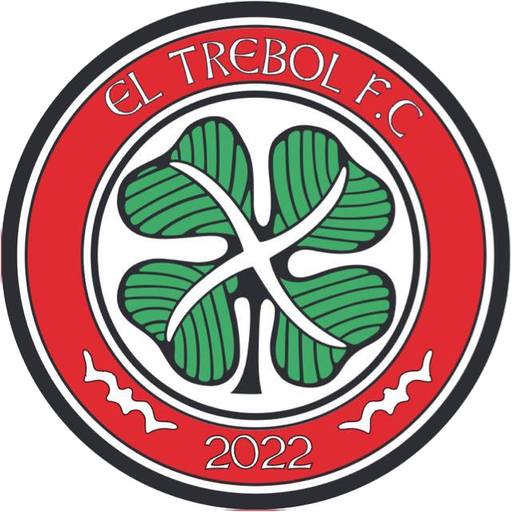
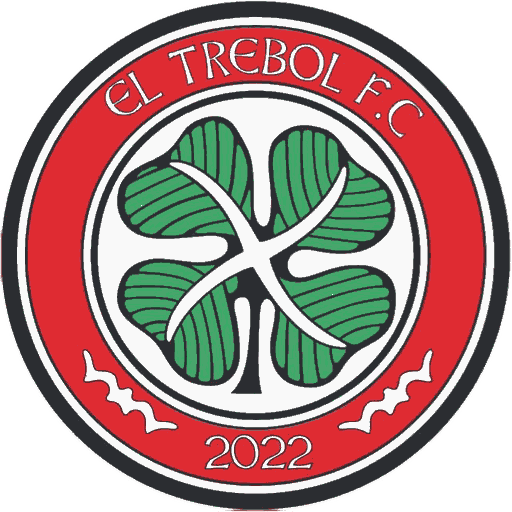
Add files via upload

diff --git a/index.html b/index.html
@@ -15,11 +15,18 @@
 
 <link rel="preconnect" href="https://fonts.googleapis.com" />
 <link rel="preconnect" href="https://fonts.gstatic.com" crossorigin />
-<link href="https://fonts.googleapis.com/css2?family=Oswald:wght@500;600;700&family=Poppins:wght@400;500;600;700;800&display=swap" rel="stylesheet" />
+<link rel="preconnect" href="https://cdn.tailwindcss.com" />
+<!-- Solo pedimos los pesos de fuente que realmente usamos (antes pedíamos
+     8 variantes, ahora 4) — cada peso de más es un archivo extra que hay
+     que descargar antes de que se vea bien la app. -->
+<link href="https://fonts.googleapis.com/css2?family=Oswald:wght@600&family=Poppins:wght@400;500;600&display=swap" rel="stylesheet" />
 
-<script src="https://cdn.tailwindcss.com"></script>
 <script>
-  tailwind.config = {
+  // Guardamos la configuración en una variable propia (no en `tailwind.*`,
+  // que todavía no existe) para no bloquear el HTML mientras se descarga
+  // Tailwind — se la pasamos recién cuando el script de abajo termina de
+  // cargar (ver el atributo onload).
+  window.__tailwindConfig = {
     theme: {
       extend: {
         colors: {
@@ -36,6 +43,7 @@
     },
   };
 </script>
+<script defer src="https://cdn.tailwindcss.com" onload="tailwind.config = window.__tailwindConfig"></script>
 
 <style>
   body {
@@ -56,14 +64,27 @@
     width: 1.5rem; height: 1.5rem; border-radius: 9999px;
     font-size: .7rem; font-weight: 700; flex-shrink: 0;
   }
+
+  /* Pantalla de carga inicial, en CSS puro (nada de Tailwind) — así se ve
+     apenas se abre la app, sin esperar a que bajen ni Tailwind ni las
+     tipografías ni Firebase. En cuanto la app arranca de verdad, este
+     bloque se reemplaza solo (ver el primer renderNavbar()/route()). */
+  #boot-splash {
+    min-height: 70vh; display: flex; flex-direction: column; align-items: center;
+    justify-content: center; gap: 14px; color: #9ca3af; font-family: system-ui, sans-serif;
+  }
+  #boot-splash img { width: 56px; height: 56px; border-radius: 9999px; animation: boot-pulse 1.4s ease-in-out infinite; }
+  @keyframes boot-pulse { 0%, 100% { opacity: .45; } 50% { opacity: 1; } }
 </style>
 </head>
 <body class="min-h-screen">
   <div id="navbar"></div>
-  <main id="app" class="mx-auto max-w-2xl space-y-6 px-4 py-6"></main>
+  <main id="app" class="mx-auto max-w-2xl space-y-6 px-4 py-6">
+    <div id="boot-splash"><img src="/icons/icon-192.png" alt="" /><p>Cargando…</p></div>
+  </main>
   <div id="toast" class="pointer-events-none fixed inset-x-0 bottom-4 z-50 flex flex-col items-center gap-2 px-4"></div>
 
-<script type="module">
+<script type="module" async>
 /* =========================================================================
    El Trébol FC — app de un solo archivo (HTML + CSS + JS), sin servidor
    propio: los datos viven en Firebase Firestore y el hosting es estático